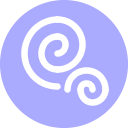
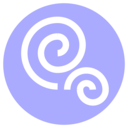
update image

diff --git a/README.md b/README.md
@@ -10,7 +10,12 @@ PNG icon 32x32 ![](http://logo.cirru.org/cirru-32x32.png)
 
 Cirru the name if from "cirrus cloud", so it should look like cloud.
 
-PNG files converted with http://www.fileformat.info/convert/image/svg2raster.htm
+PNG files converted with
+
+```
+convert -density 1200 -resize 128x128 cirru.svg cirru-128x128.png
+convert -density 1200 -resize 32x32 cirru.svg cirru-32x32.png
+```
 
 ### License
 
